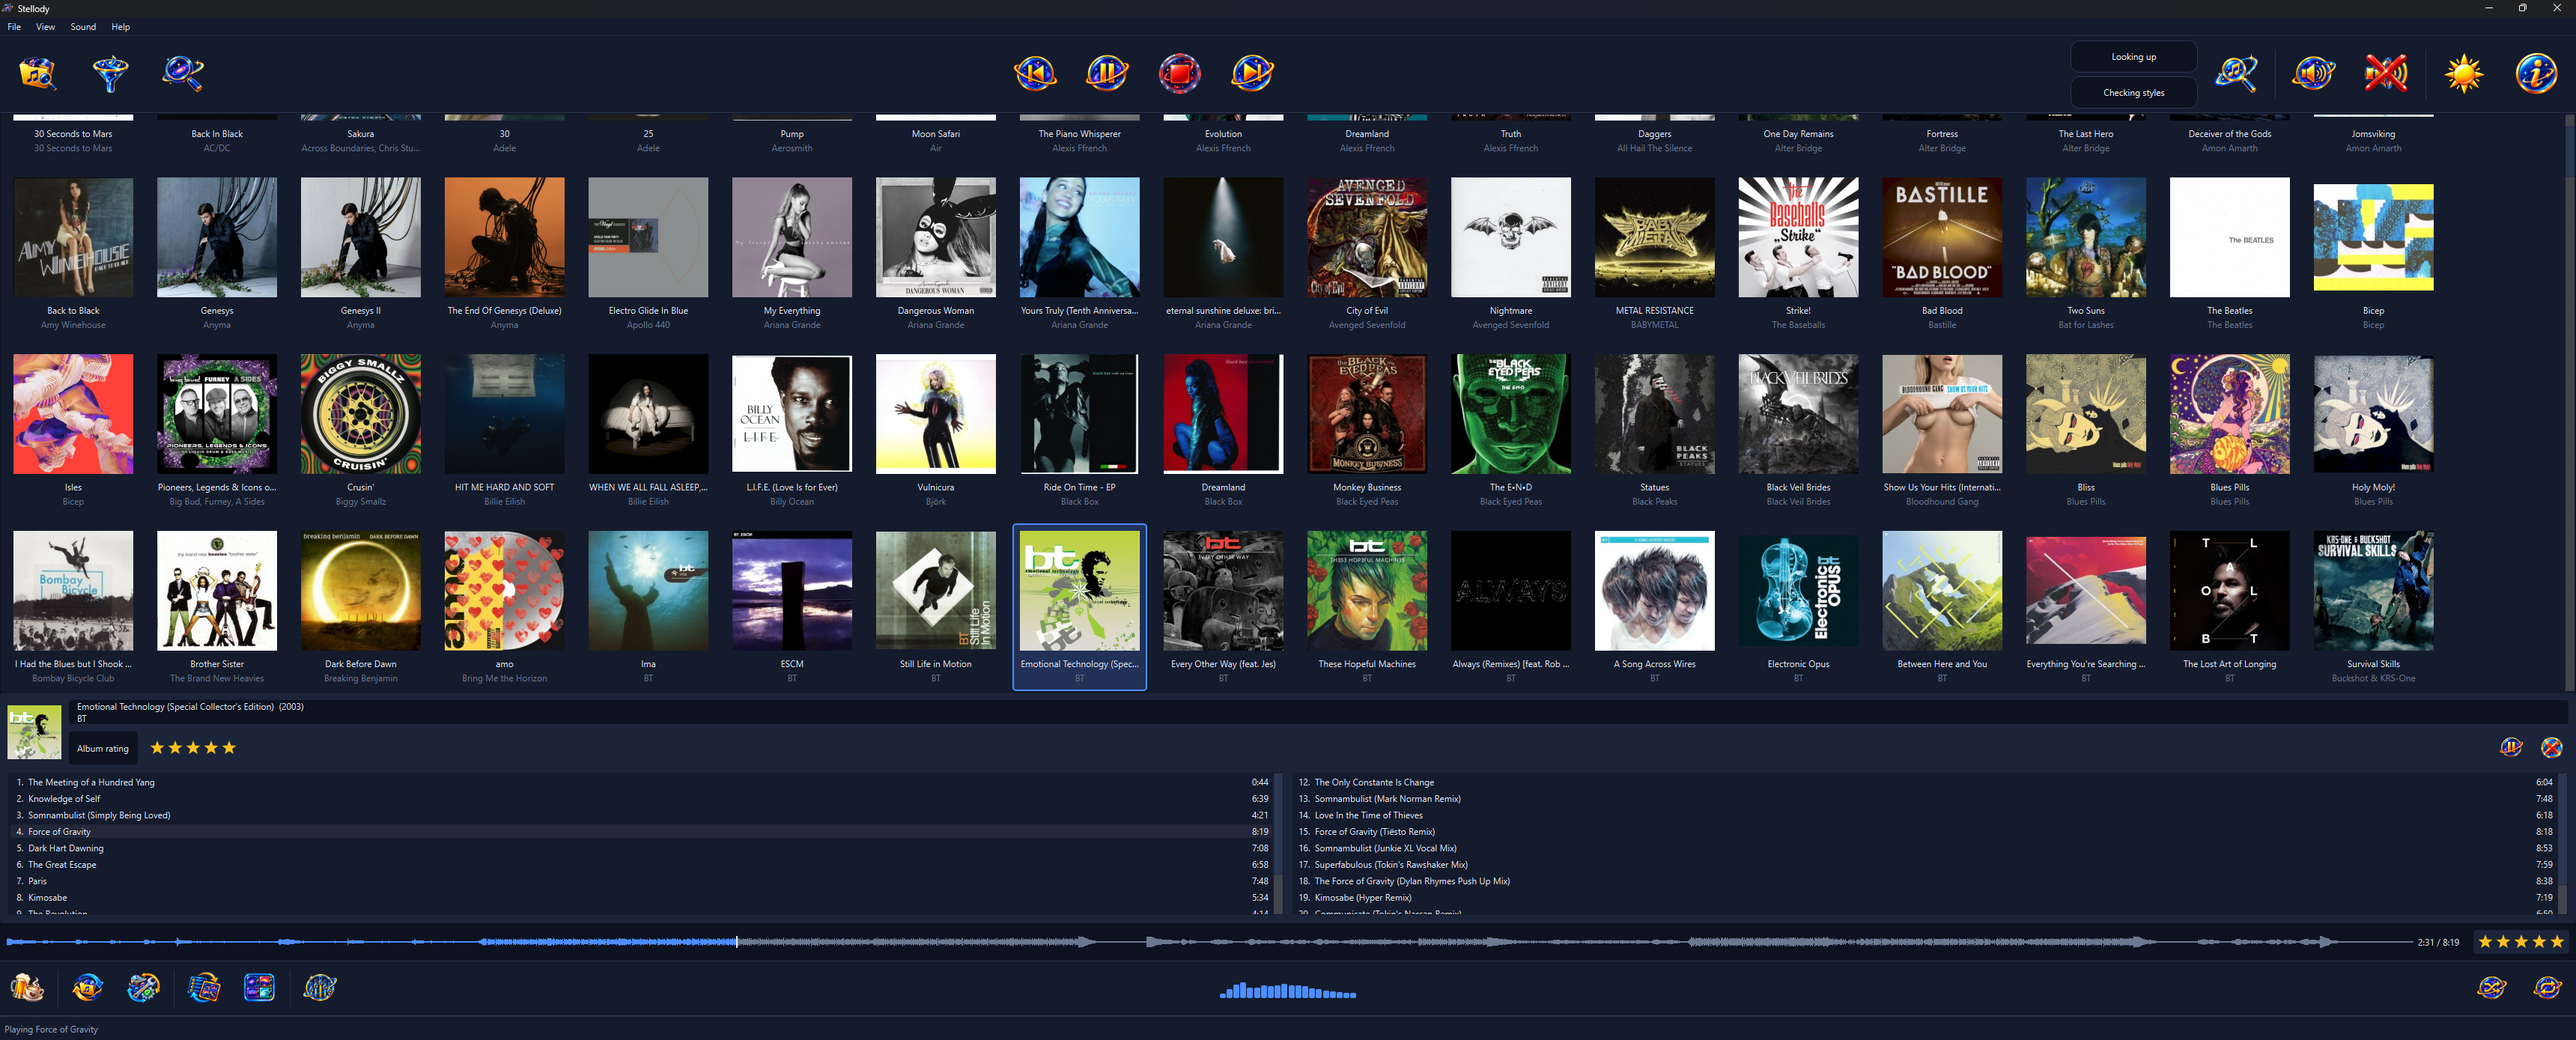
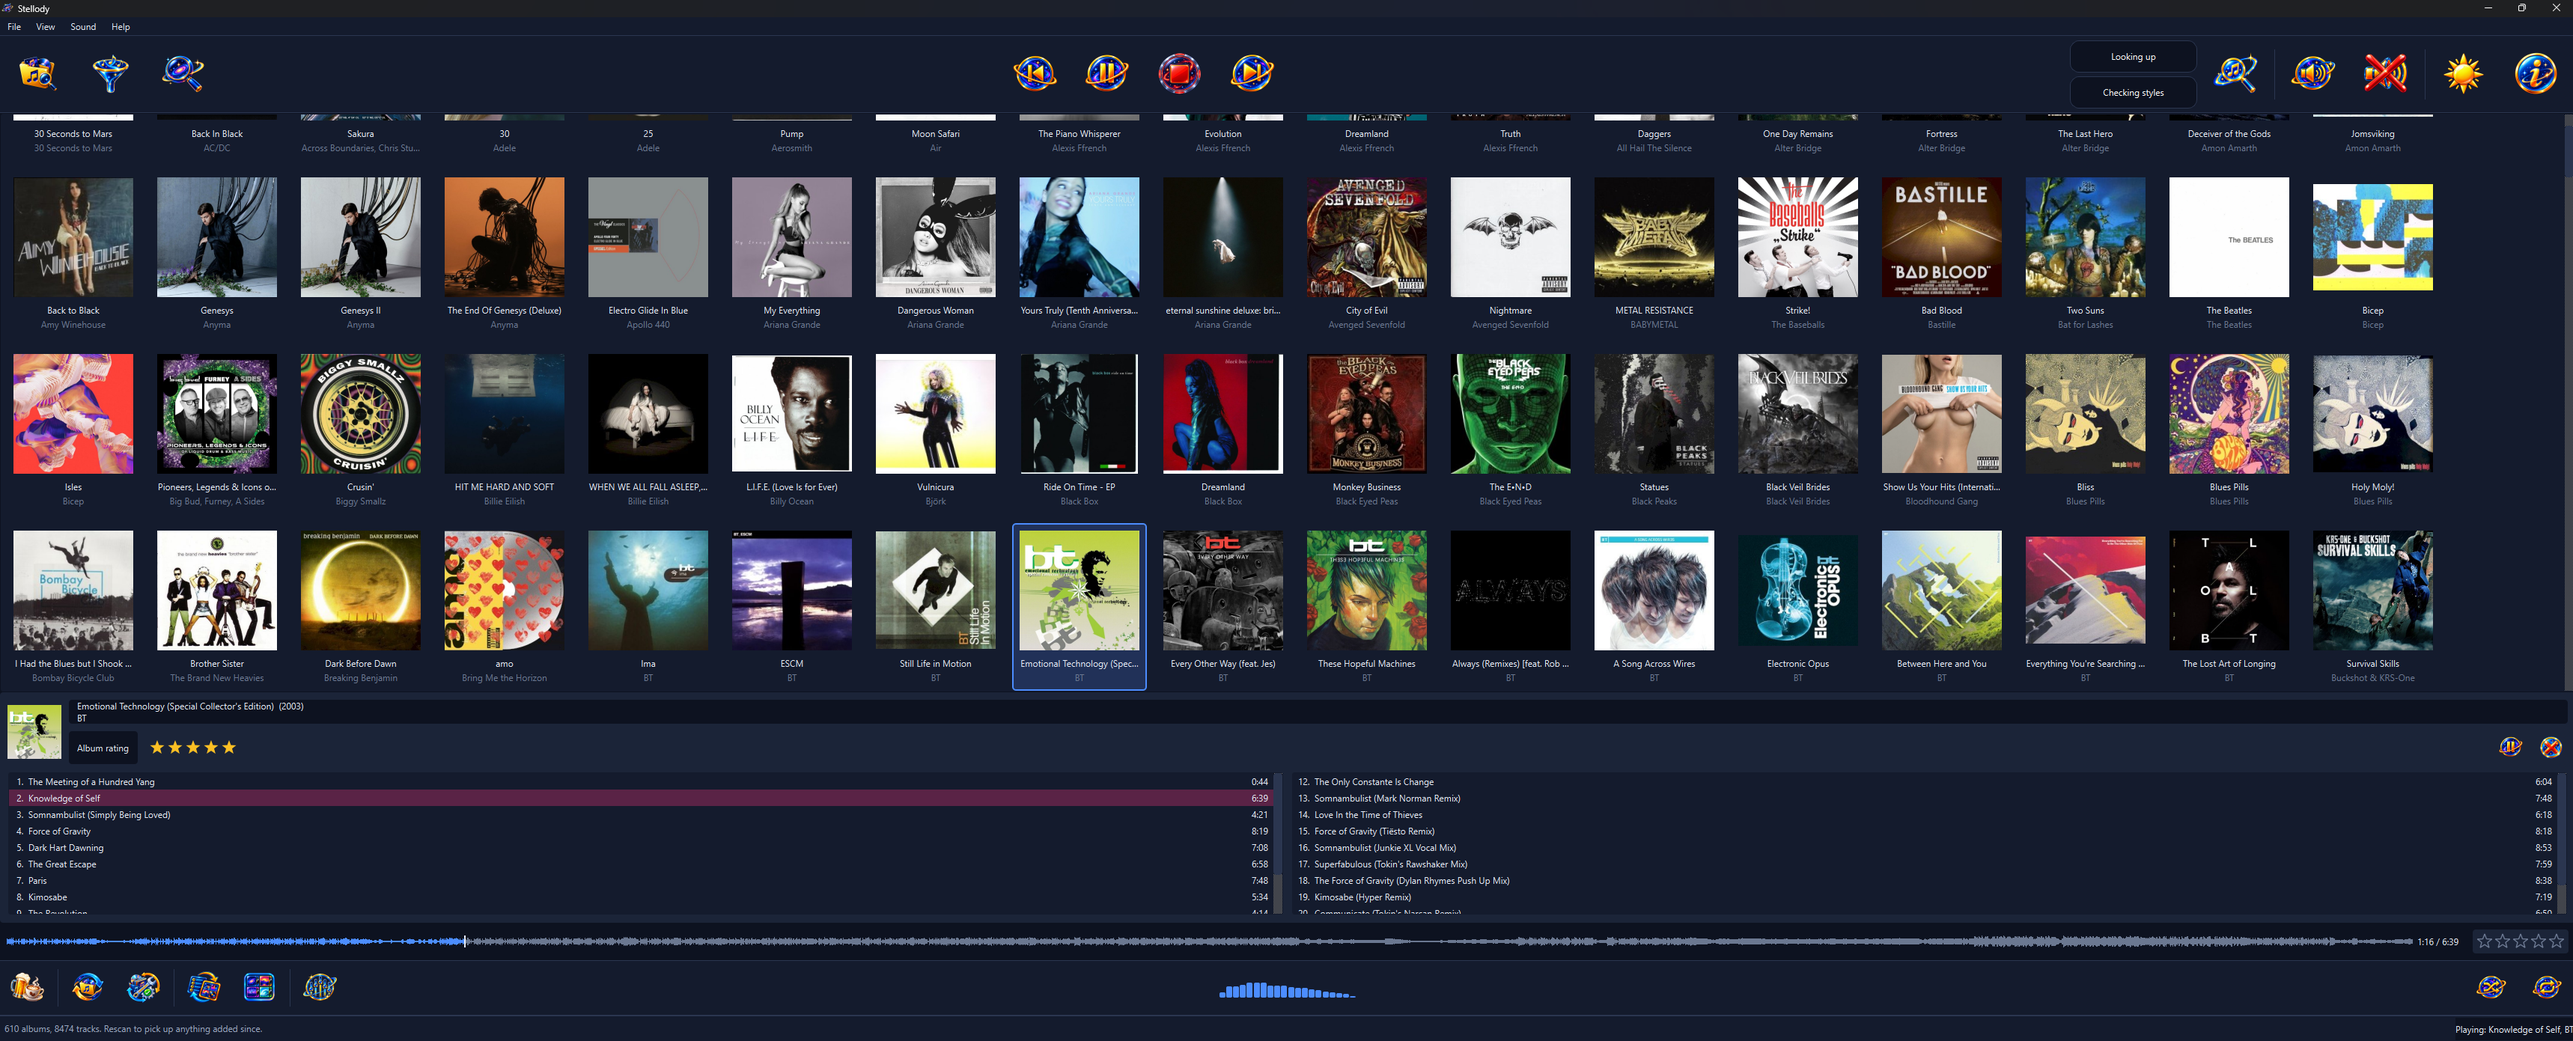
Show the playing track in the site's two window screenshots
Both screenshots are retaken with a track playing, so its row is marked and its name sits along the foot of the window. The alt text says so and the declared sizes follow the new images; the sitemap carries the dates the build stamped.

diff --git a/docs/features.html b/docs/features.html
@@ -217,7 +217,7 @@
     </div>
   </div>
   <div class="shot" style="margin-top:2.5rem;">
-    <img src="screenshots/screenshot2.png" width="1720" height="680" alt="Stellody's list view in its light appearance: one row per album with its cover, its title and its artist, then a detail column giving the year, the genres the album states and the track count, with the length at the right. An album carrying several genres lists them all there. Each row carries the chevron that opens it, with one at the left of the Title heading for opening every album at once. BT's Emotional Technology (Special Collector's Edition) is open at the foot of the list, showing its tracks. The two discovery bars sit at rest in the tray above, each labelled with its stage and empty because no search is running. The waveform of the loaded track runs along the bottom, while the spectrum display sits in the middle of the strip below it.">
+    <img src="screenshots/screenshot2.png" width="1720" height="695" alt="Stellody's list view in its light appearance: one row per album with its cover, its title and its artist, then a detail column giving the year, the genres the album states and the track count, with the length at the right. An album carrying several genres lists them all there. Each row carries the chevron that opens it, with one at the left of the Title heading for opening every album at once. BT's Emotional Technology (Special Collector's Edition) is open at the foot of the list, showing its tracks, with Knowledge of Self, the track playing, painted pink on its row. The foot of the window reads Playing: Knowledge of Self, BT. The two discovery bars sit at rest in the tray above, each labelled with its stage and empty because no search is running. The waveform of the playing track runs along the bottom, while the spectrum display sits in the middle of the strip below it.">
   </div>
   <p class="shot-caption">The list view, with the play controls across the top and your settings along the bottom.</p>
 </section>

diff --git a/docs/index.html b/docs/index.html
@@ -111,7 +111,7 @@
 
   <div class="hero-shot fade d4">
     <div class="shot">
-      <img src="screenshots/screenshot1.png" width="1720" height="696" alt="Stellody in its dark appearance, showing the collection as a grid of album sleeves. BT's Emotional Technology (Special Collector's Edition) is picked out and opened in a pane beneath the grid: its cover, its title and its year above a five star album rating, then its tracks laid out in two columns with a length beside each. The play controls sit in the middle of the tray along the top, with the two discovery bars at rest to the right of them, each labelled with its stage and empty because no search is running. The waveform of the loaded track runs along the bottom with the part already played picked out from the part still to come, while the spectrum display sits in the middle of the strip below it.">
+      <img src="screenshots/screenshot1.png" width="1719" height="696" alt="Stellody in its dark appearance, showing the collection as a grid of album sleeves. BT's Emotional Technology (Special Collector's Edition) is picked out and opened in a pane beneath the grid: its cover, its title and its year above a five star album rating, then its tracks laid out in two columns with a length beside each. Knowledge of Self, the track playing, is marked on its row in the pane, while the foot of the window reads Playing: Knowledge of Self, BT. The play controls sit in the middle of the tray along the top, with the two discovery bars at rest to the right of them, each labelled with its stage and empty because no search is running. The waveform of the playing track runs along the bottom with the part already played picked out from the part still to come, while the spectrum display sits in the middle of the strip below it.">
     </div>
     <p class="shot-caption">Click a cover to open the album underneath it. The rest of your collection stays exactly where it was.</p>
   </div>
